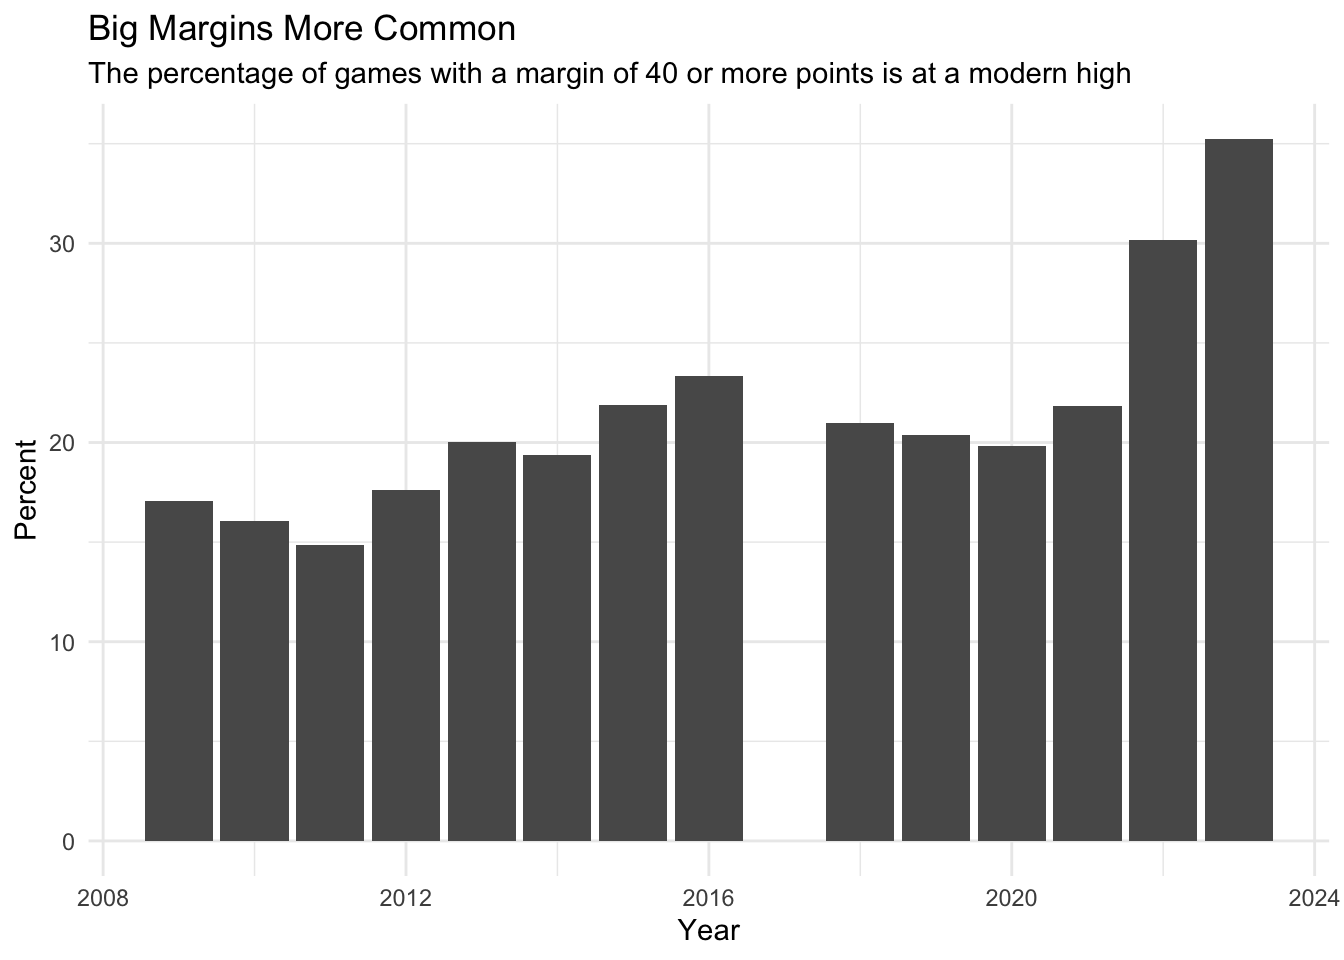
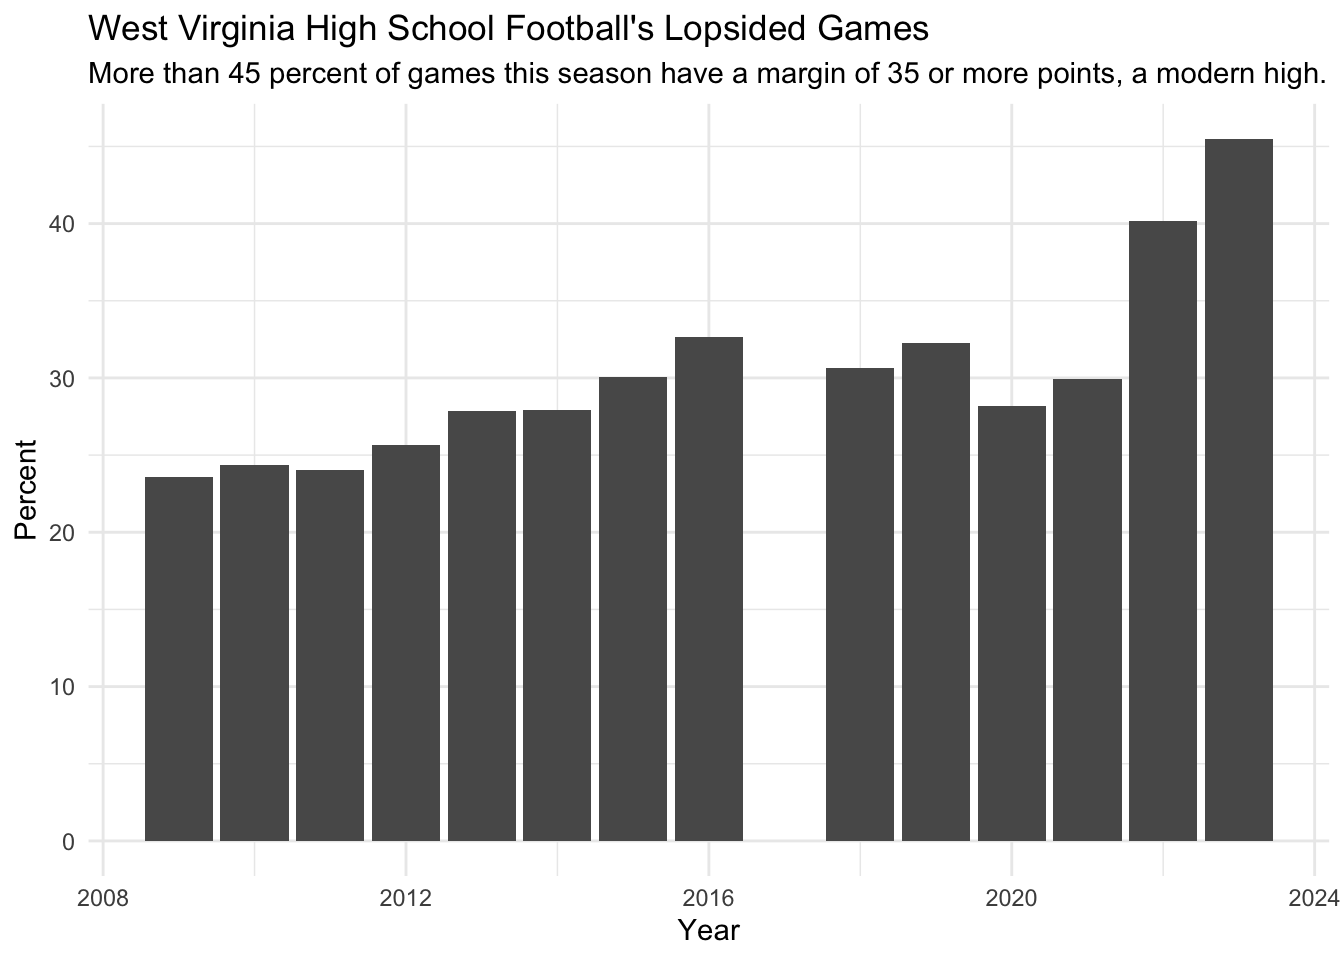
updated for 35+ margins

diff --git a/wv_scores.html b/wv_scores.html
@@ -92,9 +92,11 @@ pre > code.sourceCode > span > a:first-child::before { text-decoration: underlin
 <div class="sourceCode cell-code" id="cb3"><pre class="sourceCode r code-with-copy"><code class="sourceCode r"><span id="cb3-1"><a href="#cb3-1" aria-hidden="true" tabindex="-1"></a>wv_by_year <span class="ot">&lt;-</span> wv_games <span class="sc">|&gt;</span> </span>
 <span id="cb3-2"><a href="#cb3-2" aria-hidden="true" tabindex="-1"></a>  <span class="fu">group_by</span>(year) <span class="sc">|&gt;</span> </span>
 <span id="cb3-3"><a href="#cb3-3" aria-hidden="true" tabindex="-1"></a>  <span class="fu">summarise</span>(</span>
-<span id="cb3-4"><a href="#cb3-4" aria-hidden="true" tabindex="-1"></a>    <span class="at">avg_diff =</span> <span class="fu">mean</span>(differential),</span>
-<span id="cb3-5"><a href="#cb3-5" aria-hidden="true" tabindex="-1"></a>    <span class="at">median_diff =</span> <span class="fu">median</span>(differential)</span>
-<span id="cb3-6"><a href="#cb3-6" aria-hidden="true" tabindex="-1"></a>  )</span></code><button title="Copy to Clipboard" class="code-copy-button"><i class="bi"></i></button></pre></div>
+<span id="cb3-4"><a href="#cb3-4" aria-hidden="true" tabindex="-1"></a>    <span class="at">min_diff =</span> <span class="fu">min</span>(differential),</span>
+<span id="cb3-5"><a href="#cb3-5" aria-hidden="true" tabindex="-1"></a>    <span class="at">max_diff =</span> <span class="fu">max</span>(differential),</span>
+<span id="cb3-6"><a href="#cb3-6" aria-hidden="true" tabindex="-1"></a>    <span class="at">avg_diff =</span> <span class="fu">mean</span>(differential),</span>
+<span id="cb3-7"><a href="#cb3-7" aria-hidden="true" tabindex="-1"></a>    <span class="at">median_diff =</span> <span class="fu">median</span>(differential)</span>
+<span id="cb3-8"><a href="#cb3-8" aria-hidden="true" tabindex="-1"></a>  )</span></code><button title="Copy to Clipboard" class="code-copy-button"><i class="bi"></i></button></pre></div>
 </div>
 </section>
 <section id="make-a-bar-chart-of-average-differential" class="level2">
@@ -113,35 +115,61 @@ pre > code.sourceCode > span > a:first-child::before { text-decoration: underlin
 </div>
 </div>
 </section>
-<section id="are-there-more-40-margin-games" class="level2">
-<h2 class="anchored" data-anchor-id="are-there-more-40-margin-games">Are there more 40+ margin games?</h2>
+<section id="are-there-more-35-margin-games" class="level2">
+<h2 class="anchored" data-anchor-id="are-there-more-35-margin-games">Are there more 35+ margin games?</h2>
 <div class="cell">
 <div class="sourceCode cell-code" id="cb5"><pre class="sourceCode r code-with-copy"><code class="sourceCode r"><span id="cb5-1"><a href="#cb5-1" aria-hidden="true" tabindex="-1"></a>all_games <span class="ot">&lt;-</span> wv_games <span class="sc">|&gt;</span> </span>
 <span id="cb5-2"><a href="#cb5-2" aria-hidden="true" tabindex="-1"></a>  <span class="fu">group_by</span>(year) <span class="sc">|&gt;</span> </span>
 <span id="cb5-3"><a href="#cb5-3" aria-hidden="true" tabindex="-1"></a>  <span class="fu">summarise</span>(<span class="at">all_games =</span> <span class="fu">n</span>())</span>
 <span id="cb5-4"><a href="#cb5-4" aria-hidden="true" tabindex="-1"></a></span>
-<span id="cb5-5"><a href="#cb5-5" aria-hidden="true" tabindex="-1"></a>forty_plus <span class="ot">&lt;-</span> wv_games <span class="sc">|&gt;</span> </span>
-<span id="cb5-6"><a href="#cb5-6" aria-hidden="true" tabindex="-1"></a>  <span class="fu">filter</span>(differential <span class="sc">&gt;=</span> <span class="dv">40</span>) <span class="sc">|&gt;</span> </span>
+<span id="cb5-5"><a href="#cb5-5" aria-hidden="true" tabindex="-1"></a>thirtyfive_plus <span class="ot">&lt;-</span> wv_games <span class="sc">|&gt;</span> </span>
+<span id="cb5-6"><a href="#cb5-6" aria-hidden="true" tabindex="-1"></a>  <span class="fu">filter</span>(differential <span class="sc">&gt;=</span> <span class="dv">35</span>) <span class="sc">|&gt;</span> </span>
 <span id="cb5-7"><a href="#cb5-7" aria-hidden="true" tabindex="-1"></a>  <span class="fu">group_by</span>(year) <span class="sc">|&gt;</span> </span>
-<span id="cb5-8"><a href="#cb5-8" aria-hidden="true" tabindex="-1"></a>  <span class="fu">summarise</span>(<span class="at">forty_plus_games =</span> <span class="fu">n</span>())</span>
+<span id="cb5-8"><a href="#cb5-8" aria-hidden="true" tabindex="-1"></a>  <span class="fu">summarise</span>(<span class="at">thirtyfive_plus_games =</span> <span class="fu">n</span>())</span>
 <span id="cb5-9"><a href="#cb5-9" aria-hidden="true" tabindex="-1"></a></span>
-<span id="cb5-10"><a href="#cb5-10" aria-hidden="true" tabindex="-1"></a>forty_with_pct <span class="ot">&lt;-</span> all_games <span class="sc">|&gt;</span> </span>
-<span id="cb5-11"><a href="#cb5-11" aria-hidden="true" tabindex="-1"></a>  <span class="fu">inner_join</span>(forty_plus) <span class="sc">|&gt;</span> </span>
-<span id="cb5-12"><a href="#cb5-12" aria-hidden="true" tabindex="-1"></a>  <span class="fu">mutate</span>(<span class="at">pct =</span> forty_plus_games<span class="sc">/</span>all_games <span class="sc">*</span><span class="dv">100</span>) <span class="sc">|&gt;</span> </span>
+<span id="cb5-10"><a href="#cb5-10" aria-hidden="true" tabindex="-1"></a>thirtyfive_with_pct <span class="ot">&lt;-</span> all_games <span class="sc">|&gt;</span> </span>
+<span id="cb5-11"><a href="#cb5-11" aria-hidden="true" tabindex="-1"></a>  <span class="fu">inner_join</span>(thirtyfive_plus) <span class="sc">|&gt;</span> </span>
+<span id="cb5-12"><a href="#cb5-12" aria-hidden="true" tabindex="-1"></a>  <span class="fu">mutate</span>(<span class="at">pct =</span> thirtyfive_plus_games<span class="sc">/</span>all_games <span class="sc">*</span><span class="dv">100</span>) <span class="sc">|&gt;</span> </span>
 <span id="cb5-13"><a href="#cb5-13" aria-hidden="true" tabindex="-1"></a>  <span class="fu">arrange</span>(<span class="fu">desc</span>(pct))</span></code><button title="Copy to Clipboard" class="code-copy-button"><i class="bi"></i></button></pre></div>
 <div class="cell-output cell-output-stderr">
 <pre><code>Joining with `by = join_by(year)`</code></pre>
 </div>
+<div class="sourceCode cell-code" id="cb7"><pre class="sourceCode r code-with-copy"><code class="sourceCode r"><span id="cb7-1"><a href="#cb7-1" aria-hidden="true" tabindex="-1"></a>all_games <span class="sc">|&gt;</span> </span>
+<span id="cb7-2"><a href="#cb7-2" aria-hidden="true" tabindex="-1"></a>  <span class="fu">inner_join</span>(thirtyfive_plus) <span class="sc">|&gt;</span> </span>
+<span id="cb7-3"><a href="#cb7-3" aria-hidden="true" tabindex="-1"></a>  <span class="fu">mutate</span>(<span class="at">pct =</span> thirtyfive_plus_games<span class="sc">/</span>all_games <span class="sc">*</span><span class="dv">100</span>) <span class="sc">|&gt;</span> </span>
+<span id="cb7-4"><a href="#cb7-4" aria-hidden="true" tabindex="-1"></a>  <span class="fu">arrange</span>(<span class="fu">desc</span>(pct))</span></code><button title="Copy to Clipboard" class="code-copy-button"><i class="bi"></i></button></pre></div>
+<div class="cell-output cell-output-stderr">
+<pre><code>Joining with `by = join_by(year)`</code></pre>
+</div>
+<div class="cell-output cell-output-stdout">
+<pre><code># A tibble: 14 × 4
+    year all_games thirtyfive_plus_games   pct
+   &lt;dbl&gt;     &lt;int&gt;                 &lt;int&gt; &lt;dbl&gt;
+ 1  2023       400                   182  45.5
+ 2  2022       540                   217  40.2
+ 3  2016       518                   169  32.6
+ 4  2019       545                   176  32.3
+ 5  2018       558                   171  30.6
+ 6  2015       516                   155  30.0
+ 7  2021       545                   163  29.9
+ 8  2020       444                   125  28.2
+ 9  2014       516                   144  27.9
+10  2013       524                   146  27.9
+11  2012       511                   131  25.6
+12  2010       529                   129  24.4
+13  2011       512                   123  24.0
+14  2009       539                   127  23.6</code></pre>
+</div>
 </div>
 <div class="cell">
-<div class="sourceCode cell-code" id="cb7"><pre class="sourceCode r code-with-copy"><code class="sourceCode r"><span id="cb7-1"><a href="#cb7-1" aria-hidden="true" tabindex="-1"></a><span class="fu">ggplot</span>() <span class="sc">+</span> </span>
-<span id="cb7-2"><a href="#cb7-2" aria-hidden="true" tabindex="-1"></a>  <span class="fu">geom_bar</span>(<span class="at">data=</span>forty_with_pct, <span class="fu">aes</span>(<span class="at">x=</span>year, <span class="at">weight=</span>pct)) <span class="sc">+</span></span>
-<span id="cb7-3"><a href="#cb7-3" aria-hidden="true" tabindex="-1"></a>  <span class="fu">labs</span>(</span>
-<span id="cb7-4"><a href="#cb7-4" aria-hidden="true" tabindex="-1"></a>    <span class="at">title=</span><span class="st">"Big Margins More Common"</span>, </span>
-<span id="cb7-5"><a href="#cb7-5" aria-hidden="true" tabindex="-1"></a>    <span class="at">subtitle =</span> <span class="st">"The percentage of games with a margin of 40 or more points is at a modern high"</span>,</span>
-<span id="cb7-6"><a href="#cb7-6" aria-hidden="true" tabindex="-1"></a>    <span class="at">x=</span><span class="st">"Year"</span>, </span>
-<span id="cb7-7"><a href="#cb7-7" aria-hidden="true" tabindex="-1"></a>    <span class="at">y=</span><span class="st">"Percent"</span></span>
-<span id="cb7-8"><a href="#cb7-8" aria-hidden="true" tabindex="-1"></a>) <span class="sc">+</span> <span class="fu">theme_minimal</span>()</span></code><button title="Copy to Clipboard" class="code-copy-button"><i class="bi"></i></button></pre></div>
+<div class="sourceCode cell-code" id="cb10"><pre class="sourceCode r code-with-copy"><code class="sourceCode r"><span id="cb10-1"><a href="#cb10-1" aria-hidden="true" tabindex="-1"></a><span class="fu">ggplot</span>() <span class="sc">+</span> </span>
+<span id="cb10-2"><a href="#cb10-2" aria-hidden="true" tabindex="-1"></a>  <span class="fu">geom_bar</span>(<span class="at">data=</span>thirtyfive_with_pct, <span class="fu">aes</span>(<span class="at">x=</span>year, <span class="at">weight=</span>pct)) <span class="sc">+</span></span>
+<span id="cb10-3"><a href="#cb10-3" aria-hidden="true" tabindex="-1"></a>  <span class="fu">labs</span>(</span>
+<span id="cb10-4"><a href="#cb10-4" aria-hidden="true" tabindex="-1"></a>    <span class="at">title=</span><span class="st">"West Virginia High School Football's Lopsided Games"</span>, </span>
+<span id="cb10-5"><a href="#cb10-5" aria-hidden="true" tabindex="-1"></a>    <span class="at">subtitle =</span> <span class="st">"More than 45 percent of games this season have a margin of 35 or more points, a modern high."</span>,</span>
+<span id="cb10-6"><a href="#cb10-6" aria-hidden="true" tabindex="-1"></a>    <span class="at">x=</span><span class="st">"Year"</span>, </span>
+<span id="cb10-7"><a href="#cb10-7" aria-hidden="true" tabindex="-1"></a>    <span class="at">y=</span><span class="st">"Percent"</span></span>
+<span id="cb10-8"><a href="#cb10-8" aria-hidden="true" tabindex="-1"></a>) <span class="sc">+</span> <span class="fu">theme_minimal</span>()</span></code><button title="Copy to Clipboard" class="code-copy-button"><i class="bi"></i></button></pre></div>
 <div class="cell-output-display">
 <p><img src="wv_scores_files/figure-html/unnamed-chunk-6-1.png" class="img-fluid" width="672"></p>
 </div>
